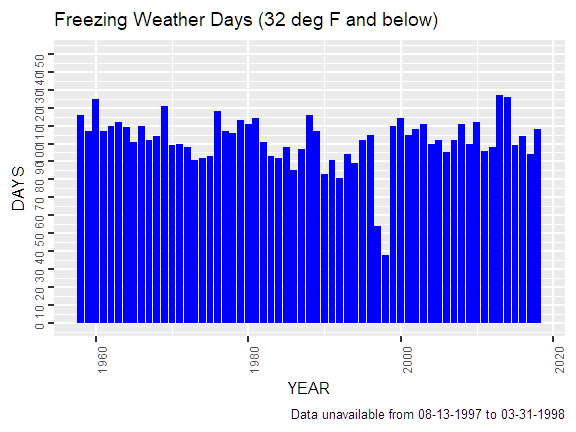
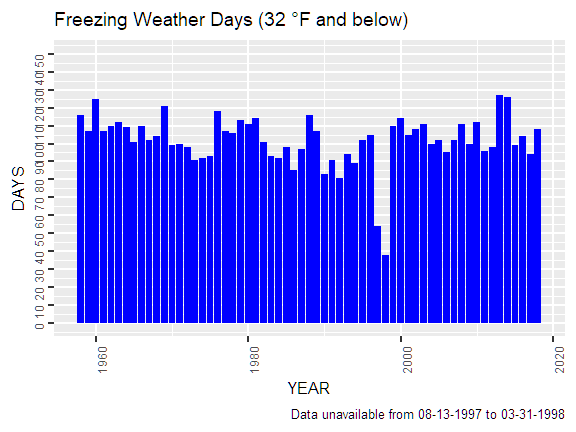
Present additional heavy rainfall calculations in HotWater.rmd.
Fixed axis titles in multiple images.

Interim update of narrative in README.

Changed region(s): [[0.5, 0.0301, 0.7812, 0.0903]]

diff --git a/README.md b/README.md
@@ -11,80 +11,48 @@ Daily temperature extremes and observed precipitation amounts from Cincinnati's 
 
 ## Precipitation Analysis and Impact
 
-Consistent Number of Rain Days  
+Sewer design must handle normal rainfall as per the [Cincinnati Metropolitan Sewer District Rules and Regulations](https://www.msdgc.org/downloads/about_msd/msd-rules-regulations/rules_and_regulations.pdf).  Additionally, stormwater detention should factor in the impact of development on runoff and differences between a once in 10 or 25 year storms.  Per district figures, these storms could produce between 2 and 2.4 inches of rain per hour.       [Annual progress reports](https://projectgroundwork.org/downloads/consentdecreequarterly/CD_Q2_2017.pdf) noted that sewer overflows occurred on days with more than 0.5" rainfall.  Therefore, rainfall analysis separately considers heavy rainfall amounts greater than a half inch per day as a separate event.  
+
+Practically, the number of total and heavy rain days appears consistent between 1958 and 2018.  This is important because while rain days may limit the construction schedule, heavy rain days may cause sewer overflows.  
+
 ![Rain Day Count](images/g.pcpt50yr.png)
-
-
-Heavy Rain Days Result in Sewer Overflows
-- Sewer design must account for normal high rainfall
-- Overflows on days with more than 0.5" rainfall
-- Acknowledge occurrence of multi-year highs
-
-![Rain Amt](images/g.hist.rainDay.png)
-
-No Trend in Heavy Rain Days
-- Heavy rain days:
-    - limit remediation schedule
-    - Impact combined sewer overflow occurrences
-- Number of heavy rain days not increasing
-- Expect median 16 rain days (11-18) per year
 ![Heavy Rain Days](images/g.hvy_prpc.png)
 
+Considering rain amounts, while most rainy days involve less than a half inch of rain, severe rains between two and five inches have occurred. Each year, a median of 16 (between 11 - 18) heavy downpours are expected based on regression of the heavy rainfall amounts.  Heavy rainfall under 1" per day are expected, while limited storms producing more than two inches may occur.  Over the next 100 years, heavy rainfalls between 4 to 5 inches may occur.  While the predictive regression suggests that maximum rainfall will increase, there is a wide amount of uncertainty in the maximum predicted amount due to historical variance.  However, these predictions may inform a safety factor for the overall sewer capacity design.   
 
-No Trend in Heavy Rain Days
-========================================================
-- Sewer capacity should consider observed maxima
-- Infrequent occurrences of 2" rainfall / day
-- Median heavy day rainfall under 1"
-
+![Rain Amt](images/g.hist.rainDay.png)
 ![Heavy Rain Amts](images/g.hvy_prpbox.png)
-
-Consistent Days Between Heavy Rainfall
-========================================================
-
-- Consecutive  rain days of rain prevent sewers from returning to baseline capacity 
-- Increase the likelihood of an overflow event
-
-![Days Btw Rain](images/g.prcp_dayBTW.png)
+![Predict 100 years](images/g.100yrMaxRain.png)
 
 ## Temperature Analysis and Impact
 
-- Increase of 1 Deg. F over 50 years  
-- Aligned with common estimates for world temperature increases
+Temperature extremes arising from climate change may impact the immediate working environment during construction projects.  Per the Occupational Safety and Health Administration (OSHA), cooling facilities must be provided for crews on hot days, and additional limitations may be placed on shift lengths.  While OSHA does not maintain a specific standard for cold weather work, it recognizes that cold weather risks such as frostbite and hypothermia are general hazards from which employers should provide protection.  Further, extreme temperatures may present a maintenance challenge for construction and waste processing equipment.  
+
+Cincinnati temperatures have increased around 1 °F over the past 50 years.  This is aligned with common estimates for world temperature increases.  For hot weather, temperatures above 100 °F occurred in June - August.  However, no trends are observed for the number of these extreme temperature days.  
 
 ![Mean Temp](images/g.mtemp.png)
-
-- Temperatures above 100 °F occurred in June - August
-- Cooling facilities for crews on hot days
-- Equipment maintenance challenges
-
 ![Hot Month](images/g.hotmonth.png)
-
-- No statistical change in number of days above 100  °F
 ![Hot Days](images/g.hotdays.png)
 
-Consistent Number of Freezing Days
-- Freezing days increase potential for water line breakage
-- Number of lowest temperature days decreasing
+For cold weather, December to February have median low temperatures below freezing.  Days below freezing have occurred as early as October and as late as May.  In general, the number of days with below freezing temperatures has remained constant, while the overall number of days with subzero temperatures has decreased.  
 
-![Cold Month](images/g.coldmonth.png)
-![Freeze Days](images/g.frezdays.png)
-![SubZero Days](images/g.subzdays.png)
-=======
 ![Cold Month](images/g.coldmonth.png)
 ![Freeze Days](images/g.frezdays.png)
 ![SubZero Days](images/g.subzdays.png)
 
 ## Limitations of Analysis
+Without understanding processing capacity, the analysis did not consider the impact of consecutive rainy days on sewers returning to a baseline capacity.  Therefore, total rainfall over a period of multiple days could be a potential factor in sewer design.  
+
+![Days Btw Rain](images/g.prcp_dayBTW.png)
+
+Second, rainfall amounts are taken from a single representative location.  Amounts may vary across the city.  Further, impermeable surfaces may impact the amount of runoff presented to a stormwater catchment, while permeable surfaces such as lawns and landscaping may decrease the amount of runoff. 
+
+Last, sewer capacity calculations consider hourly rates of rainfall.  Because the NOAA dataset presented daily values, it was impossible to determine the rate at which rainfall occurred.  Predictions based on the daily rainfall are a surrogate for hourly measurements.
+
 
 ## Conclusion
 
-Complete Projects as Planned with Expected Weather Interruptions
-- Steady temperature change without heavy impact from variation
-- No expected changes in rainfall amounts 
-- Yearly high and low temperatures permit consistent working conditions
-- Monitor changes in trends throughout the decade
-
+Wastewater projects should be completed as planned based on current estimates of precipitation and temperature extremes.  No expected changes in rainfall amounts are expected, and yearly high and low temperatures permit consistent working conditions.  Regional climate change trends should be monitored throughout the following decades for impact to the system.  Last, rainfall predictions should be revisited using hourly rainfall measurements.  
 
 ## Works Cited
 
